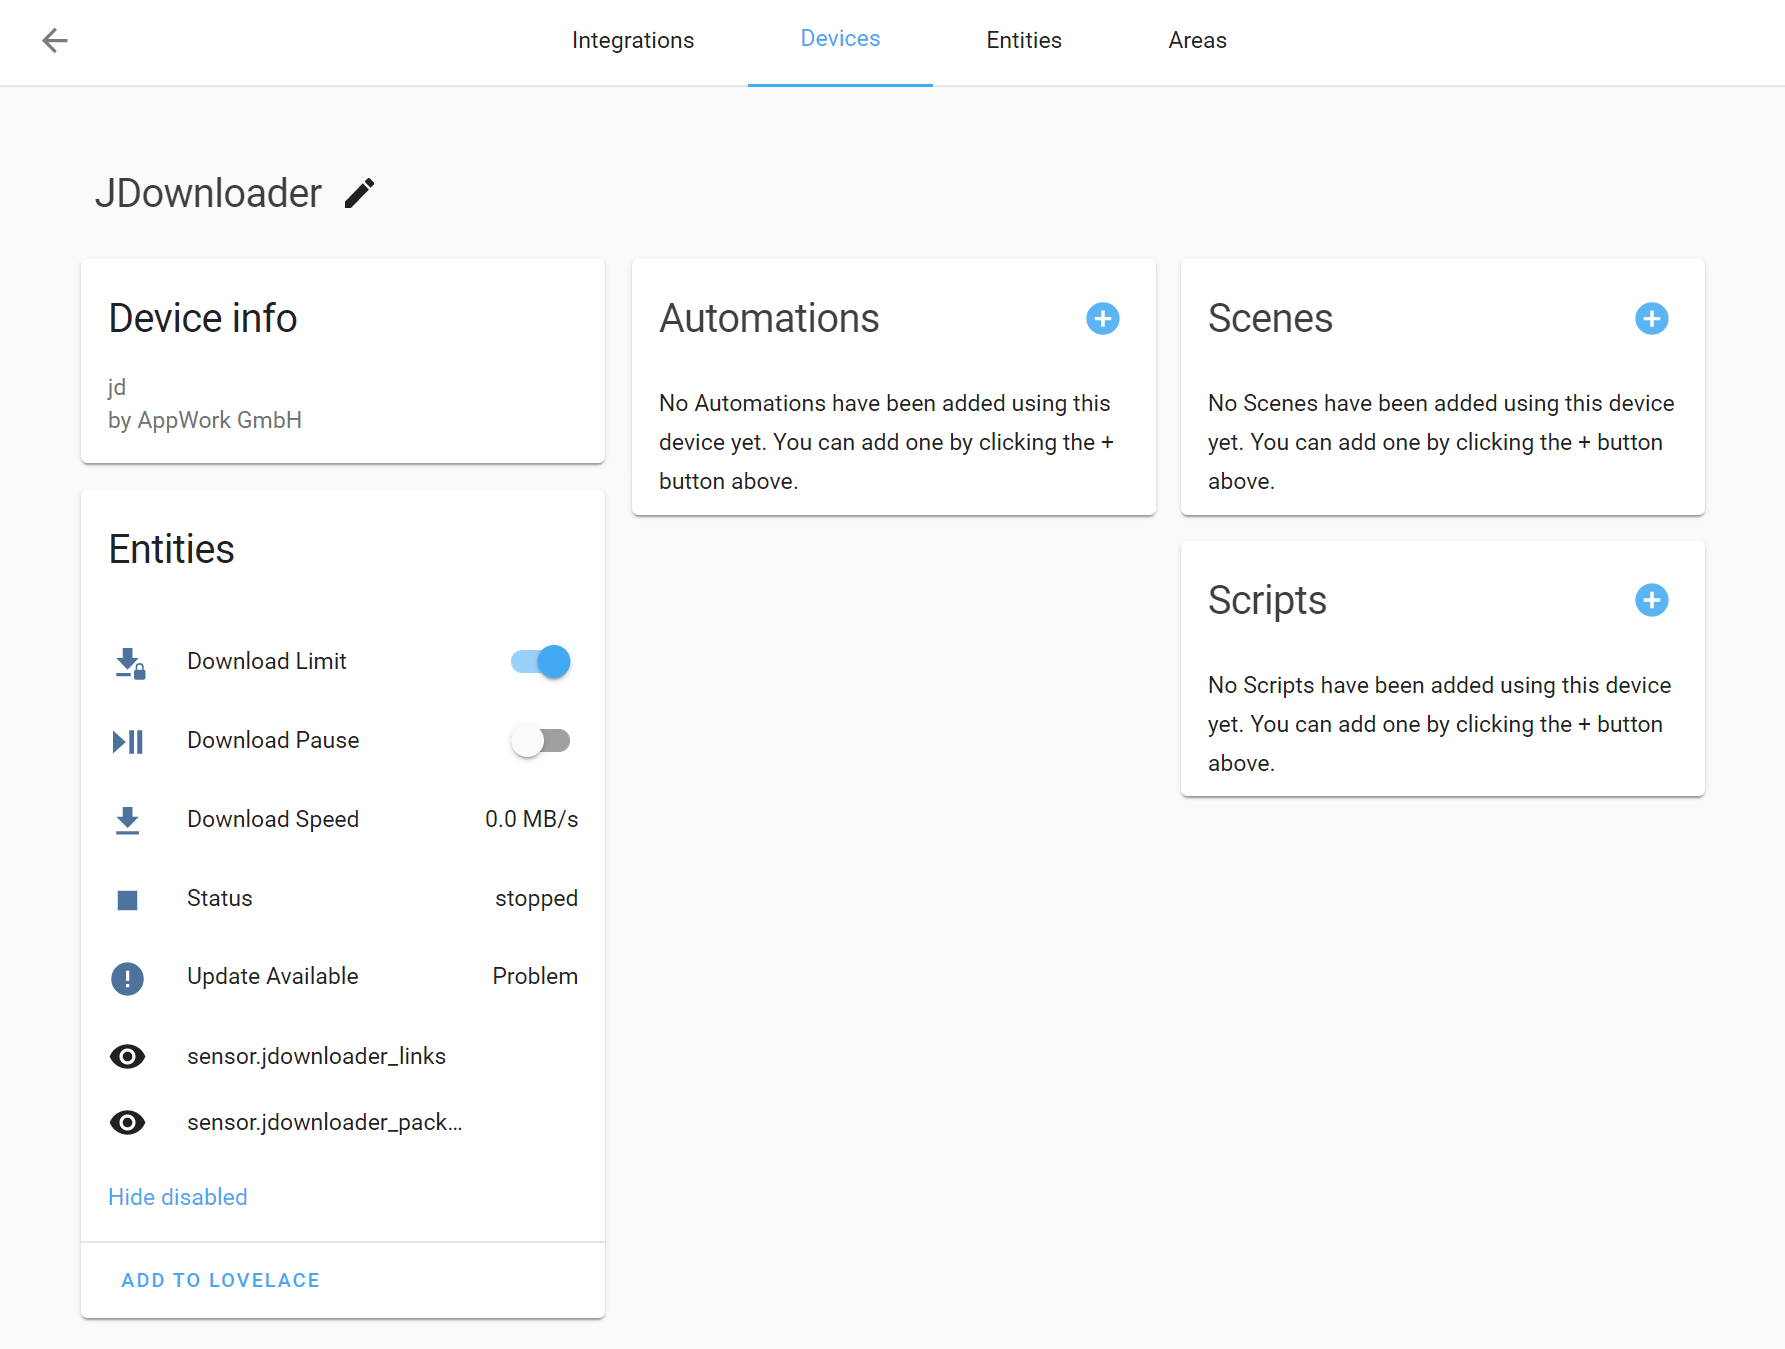
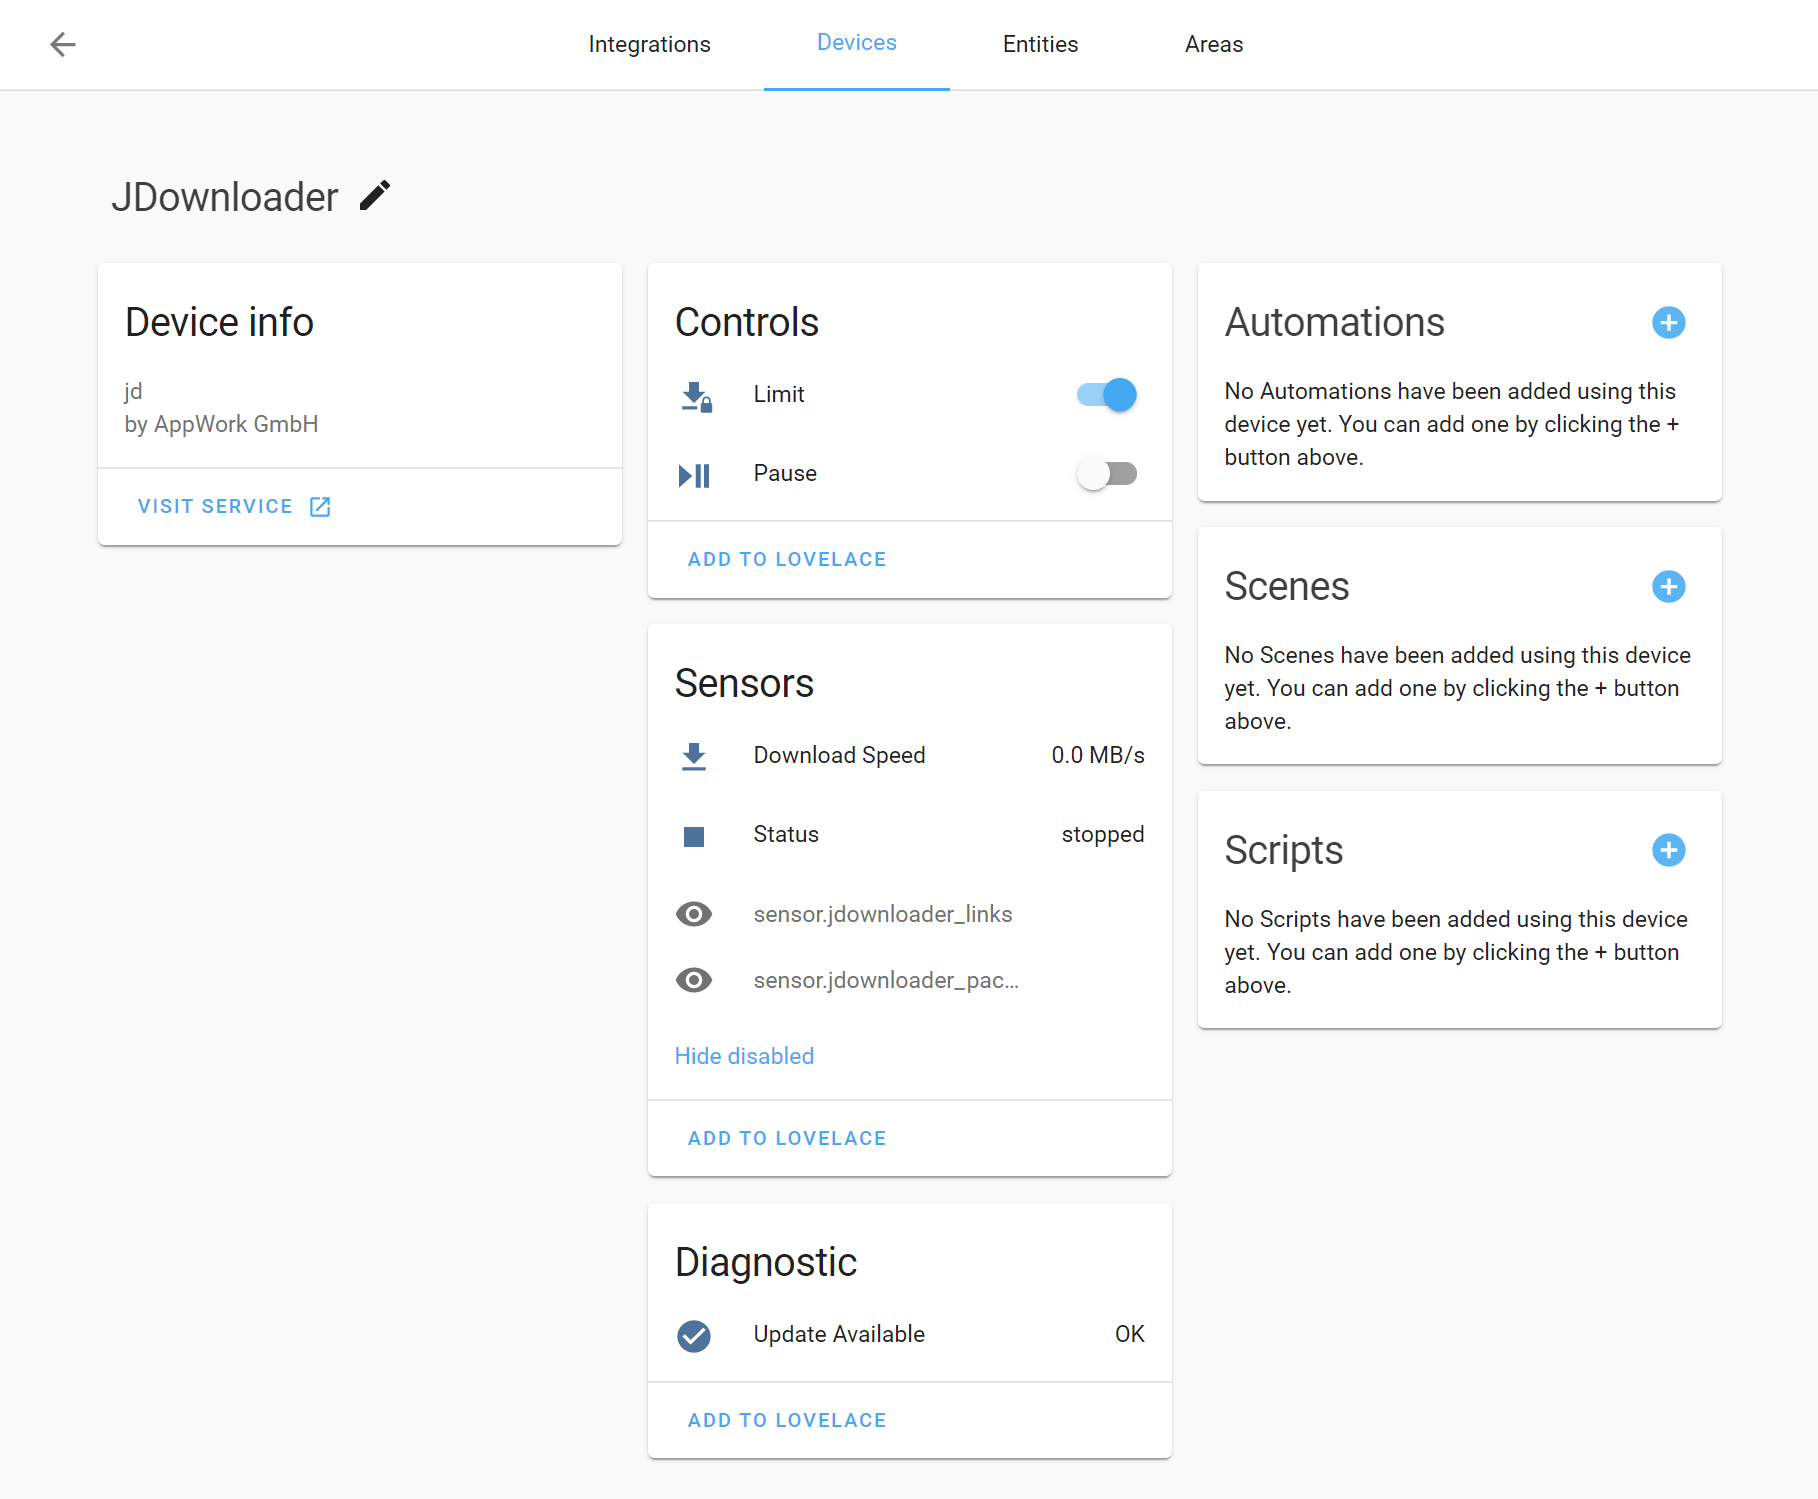
Add entity_category property

diff --git a/custom_components/myjdownloader/sensor.py b/custom_components/myjdownloader/sensor.py
@@ -100,6 +100,7 @@ class MyJDownloaderDeviceSensor(MyJDownloaderDeviceEntity, SensorEntity):
         measurement: str,
         unit_of_measurement: str,
         state_class: str | None,
+        entity_category: str | None = None,
         enabled_default: bool = True,
     ) -> None:
         """Initialize MyJDownloader sensor."""
@@ -107,7 +108,9 @@ class MyJDownloaderDeviceSensor(MyJDownloaderDeviceEntity, SensorEntity):
         self._unit_of_measurement = unit_of_measurement
         self._state_class = state_class
         self.measurement = measurement
-        super().__init__(hub, device_id, name_template, icon, enabled_default)
+        super().__init__(
+            hub, device_id, name_template, icon, entity_category, enabled_default
+        )
 
     @property
     def unique_id(self) -> str:
@@ -148,6 +151,7 @@ class MyJDownloaderSensor(MyJDownloaderEntity):
         measurement: str,
         unit_of_measurement: str,
         state_class: str | None,
+        entity_category: str | None = None,
         enabled_default: bool = True,
     ) -> None:
         """Initialize MyJDownloader sensor."""
@@ -155,7 +159,7 @@ class MyJDownloaderSensor(MyJDownloaderEntity):
         self._unit_of_measurement = unit_of_measurement
         self._state_class = state_class
         self.measurement = measurement
-        super().__init__(hub, name, icon, enabled_default)
+        super().__init__(hub, name, icon, entity_category, enabled_default)
 
     @property
     def unique_id(self) -> str:
@@ -257,6 +261,7 @@ class MyJDownloaderPackagesSensor(MyJDownloaderDeviceSensor):
             "packages",
             None,
             None,
+            None,
             False,
         )
 
@@ -290,6 +295,7 @@ class MyJDownloaderLinksSensor(MyJDownloaderDeviceSensor):
             "JDownloader $device_name Links",
             "mdi:download",
             "links",
+            None,
             None,
             None,
             False,

diff --git a/custom_components/myjdownloader/entities.py b/custom_components/myjdownloader/entities.py
@@ -1,4 +1,5 @@
 """Base entity classes for MyJDownloader integration."""
+from __future__ import annotations
 
 import logging
 from string import Template
@@ -21,10 +22,12 @@ class MyJDownloaderEntity(Entity):
         hub: MyJDownloaderHub,
         name: str,
         icon: str,
+        entity_category: str | None = None,
         enabled_default: bool = True,
     ) -> None:
         """Initialize the MyJDownloader entity."""
         self._available = True
+        self._entity_category = entity_category
         self._enabled_default = enabled_default
         self._icon = icon
         self._name = name
@@ -39,6 +42,11 @@ class MyJDownloaderEntity(Entity):
     def icon(self) -> str:
         """Return the mdi icon of the entity."""
         return self._icon
+
+    @property
+    def entity_category(self) -> str | None:
+        """Return the category of the entity."""
+        return self._entity_category
 
     @property
     def entity_registry_enabled_default(self) -> bool:
@@ -82,6 +90,7 @@ class MyJDownloaderDeviceEntity(MyJDownloaderEntity):
         device_id: str,
         name_template: str,
         icon: str,
+        entity_category: str | None = None,
         enabled_default: bool = True,
     ) -> None:
         """Initialize the MyJDownloader device entity."""
@@ -90,7 +99,7 @@ class MyJDownloaderDeviceEntity(MyJDownloaderEntity):
         self._device_name = device.name
         self._device_type = device.device_type
         name = Template(name_template).substitute(device_name=self._device_name)
-        super().__init__(hub, name, icon, enabled_default)
+        super().__init__(hub, name, icon, entity_category, enabled_default)
 
     @property
     def device_info(self) -> DeviceInfo:

diff --git a/custom_components/myjdownloader/binary_sensor.py b/custom_components/myjdownloader/binary_sensor.py
@@ -1,4 +1,5 @@
 """MyJDownloader binary sensors."""
+from __future__ import annotations
 
 import datetime
 
@@ -7,6 +8,7 @@ from homeassistant.components.binary_sensor import (
     DOMAIN,
     BinarySensorEntity,
 )
+from homeassistant.const import ENTITY_CATEGORY_DIAGNOSTIC
 from homeassistant.core import callback
 from homeassistant.helpers.dispatcher import async_dispatcher_connect
 
@@ -59,13 +61,16 @@ class MyJDownloaderBinarySensor(MyJDownloaderDeviceEntity, BinarySensorEntity):
         icon: str,
         measurement: str,
         device_class: str = None,
+        entity_category: str | None = None,
         enabled_default: bool = True,
     ) -> None:
         """Initialize MyJDownloader binary sensor."""
         self._state = None
         self._device_class = device_class
         self.measurement = measurement
-        super().__init__(hub, device_id, name_template, icon, enabled_default)
+        super().__init__(
+            hub, device_id, name_template, icon, entity_category, enabled_default
+        )
 
     @property
     def unique_id(self) -> str:
@@ -106,6 +111,7 @@ class MyJDownloaderUpdateAvailableSensor(MyJDownloaderBinarySensor):
             None,
             "update_available",
             DEVICE_CLASS_PROBLEM,
+            ENTITY_CATEGORY_DIAGNOSTIC,
         )
 
     async def _myjdownloader_update(self) -> None:

diff --git a/custom_components/myjdownloader/switch.py b/custom_components/myjdownloader/switch.py
@@ -1,4 +1,5 @@
 """MyJDownloader switches."""
+from __future__ import annotations
 
 import datetime
 import logging
@@ -60,12 +61,13 @@ class MyJDownloaderSwitch(MyJDownloaderDeviceEntity, SwitchEntity):
         name: str,
         icon: str,
         key: str,
+        entity_category: str | None = None,
         enabled_default: bool = True,
     ) -> None:
         """Initialize MyJDownloader switch."""
         self._state = False
         self._key = key
-        super().__init__(hub, device_id, name, icon, enabled_default)
+        super().__init__(hub, device_id, name, icon, entity_category, enabled_default)
 
     @property
     def unique_id(self) -> str:
